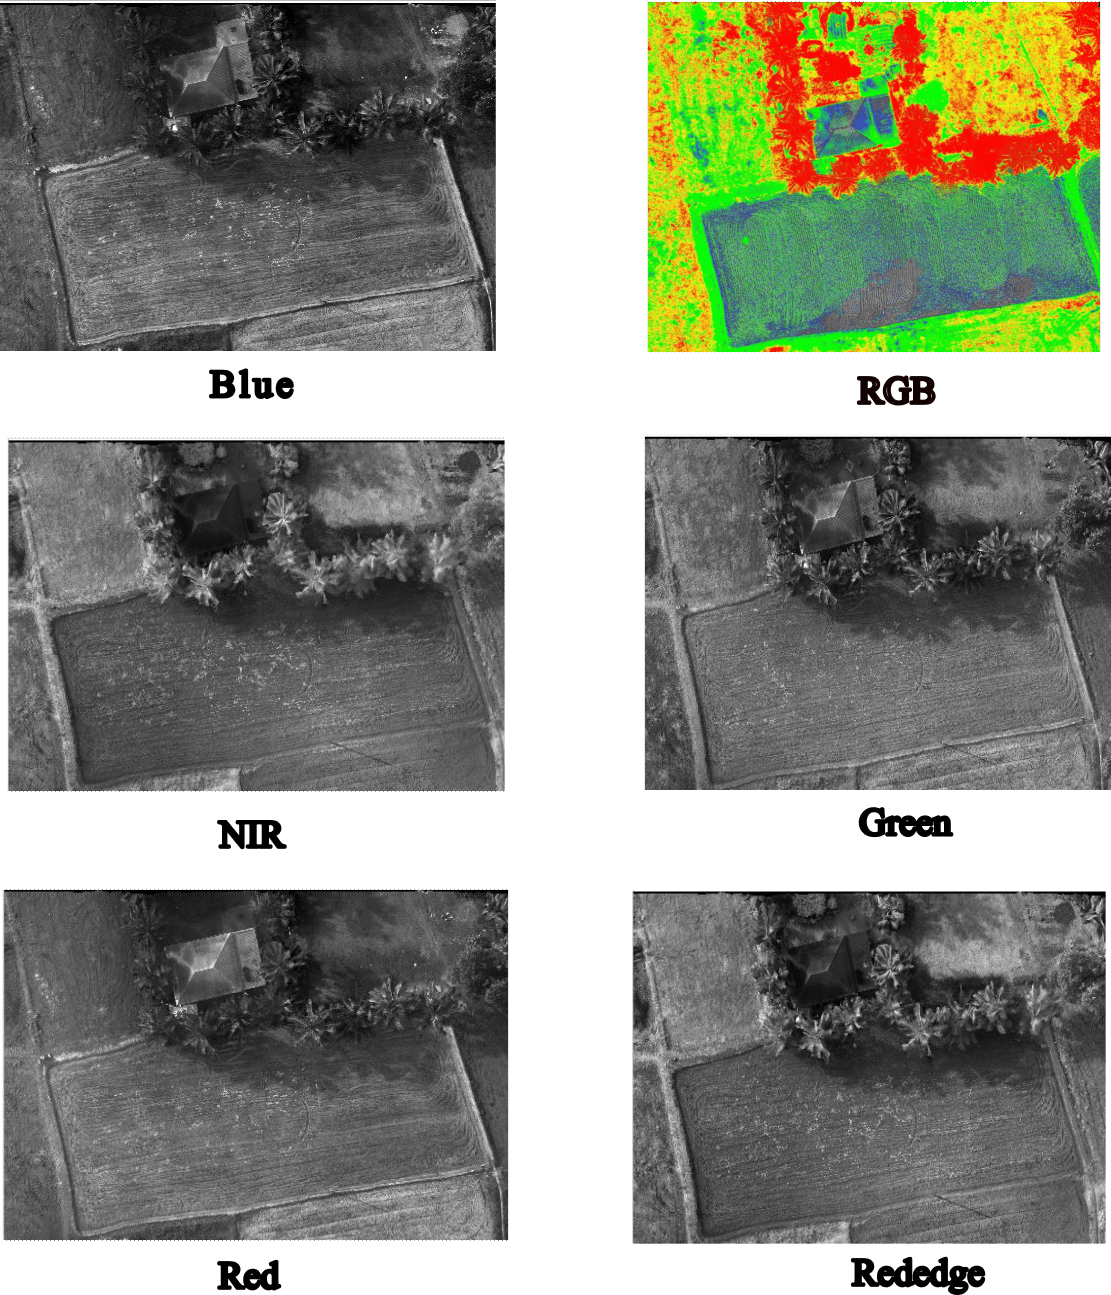
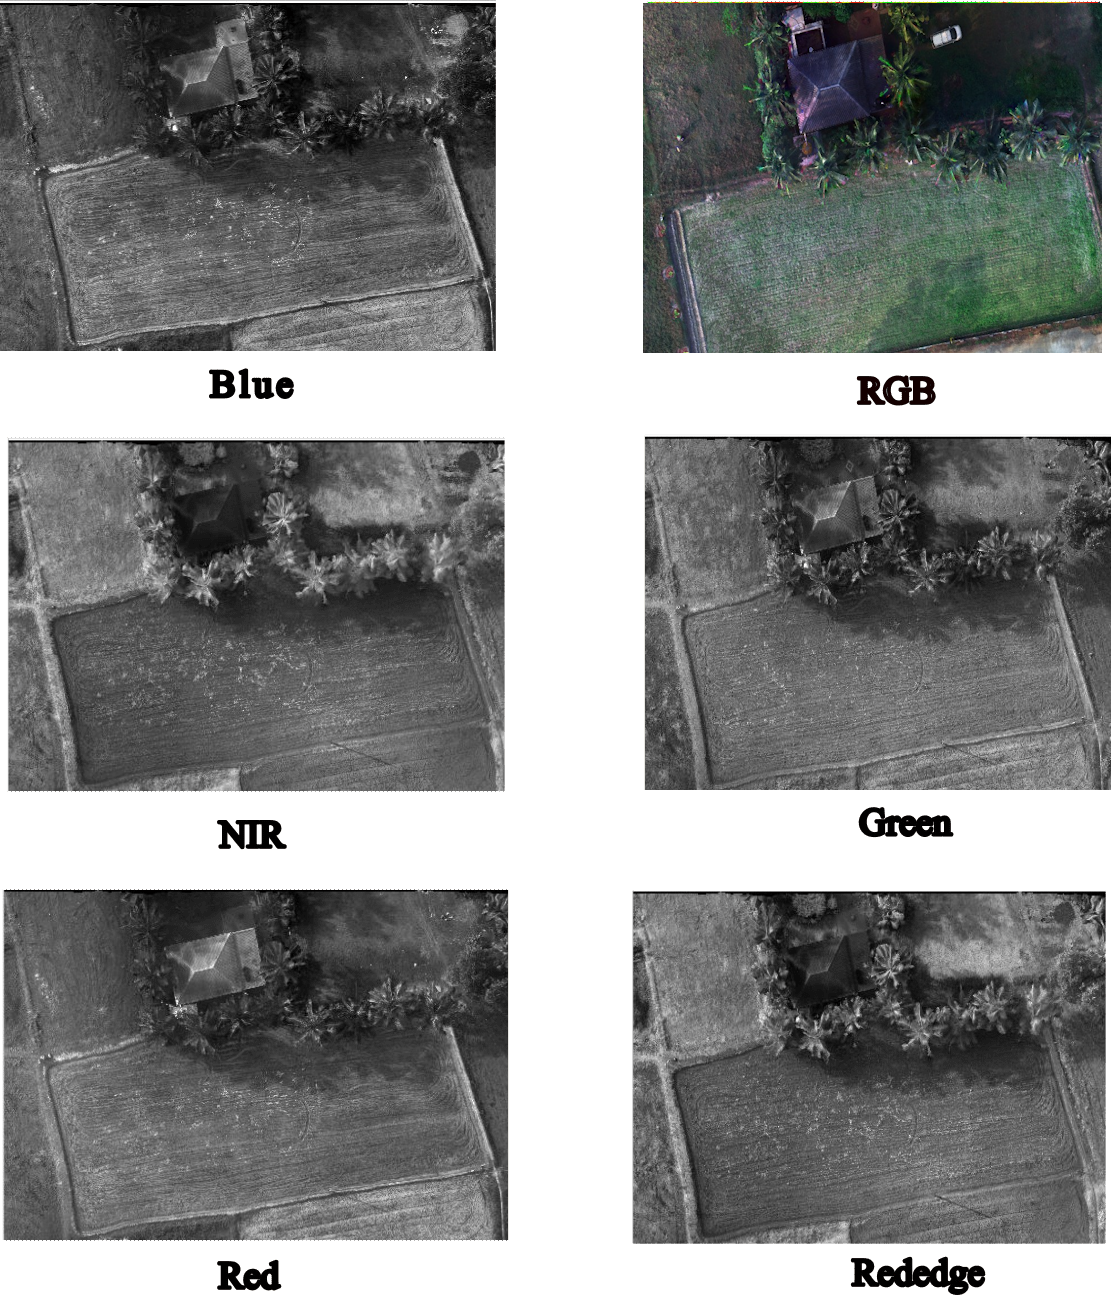
Updated an image in the simulation step

Changed region(s): [[0.5815, 0.0, 1.0, 0.278]]

diff --git a/experiment/simulation/index.html b/experiment/simulation/index.html
@@ -961,7 +961,7 @@
           height: 11px;
           visibility: hidden;
         "
-        src="./images/capture.png"
+        src="./images/capture1.png"
       />
 
         <div
